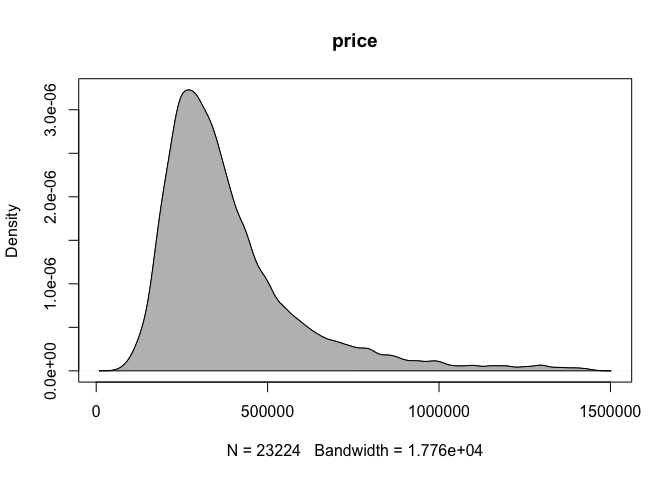
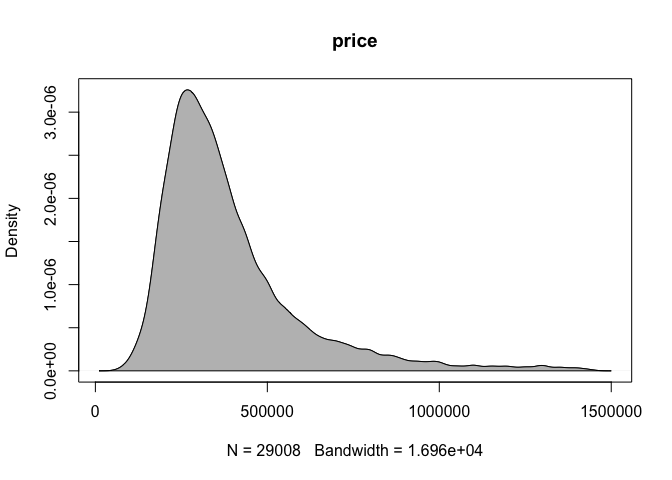
Log transform skewed features

diff --git a/modeling/modeling.md b/modeling/modeling.md
@@ -64,24 +64,12 @@ df <- subset(df,select = -c(zpid
 ```
 
 ``` r
-# train/test split
-set.seed(20221217)
-
-# 80/20
-parts = caret::createDataPartition(df$price, p = .8, list = F)
-train = df[parts, ]
-test = df[-parts, ]
-
-dim(train)
+# a little additional lot size cleaning
+df <- df[!df$lot_size == 0,]
+df <- df[!df$lot_size == 1,]
+# lot size should be at least as large as living area
+df$lot_size[df$lot_size < df$living_area] <- df$living_area[df$lot_size < df$living_area]
 ```
-
-    ## [1] 23224    31
-
-``` r
-dim(test)
-```
-
-    ## [1] 5804   31
 
 # Model
 
@@ -93,10 +81,11 @@ sophisticated approaches.
 
 The target variable distribution is right skewed, as expected with home
 prices. The log transformation does a decent job of normalizing, which
-is more appropriate for a linear model.
+is more appropriate for a linear model. Log transformations are also
+applied to the skewed features.
 
 ``` r
-d = density(train$price)
+d = density(df$price)
 plot(d, main = 'price')
 polygon(d, col='gray')
 ```
@@ -104,12 +93,40 @@ polygon(d, col='gray')
 ![](modeling_files/figure-gfm/unnamed-chunk-6-1.png)<!-- -->
 
 ``` r
-d_log = density(log(train$price))
+d_log = density(log(df$price))
 plot(d_log, main = 'price')
 polygon(d_log, col='gray')
 ```
 
 ![](modeling_files/figure-gfm/unnamed-chunk-6-2.png)<!-- -->
+
+``` r
+# feature log transformations
+df$bedrooms <- log(df$bedrooms)
+df$bathrooms <- log(df$bathrooms)
+df$living_area <- log(df$living_area)
+df$lot_size <- log(df$lot_size)
+```
+
+``` r
+# train/test split
+set.seed(20221217)
+
+# 80/20
+parts = caret::createDataPartition(df$price, p = .8, list = F)
+train = df[parts, ]
+test = df[-parts, ]
+
+dim(train)
+```
+
+    ## [1] 23207    31
+
+``` r
+dim(test)
+```
+
+    ## [1] 5801   31
 
 ``` r
 # linear model training
@@ -123,47 +140,47 @@ summary(model_lm)
     ## 
     ## Residuals:
     ##      Min       1Q   Median       3Q      Max 
-    ## -1.35287 -0.12453  0.00719  0.13963  1.29593 
+    ## -1.26566 -0.12557  0.00309  0.13734  1.28286 
     ## 
     ## Coefficients:
-    ##                   Estimate Std. Error  t value Pr(>|t|)    
-    ## (Intercept)      1.242e+01  1.230e-02 1009.882  < 2e-16 ***
-    ## bedrooms         7.255e-03  2.811e-03    2.581  0.00985 ** 
-    ## bathrooms        1.050e-01  2.698e-03   38.940  < 2e-16 ***
-    ## living_area      2.684e-04  3.688e-06   72.771  < 2e-16 ***
-    ## lot_size         1.836e-06  2.095e-07    8.763  < 2e-16 ***
-    ## downtown_dist   -3.153e-02  1.045e-03  -30.165  < 2e-16 ***
-    ## condo           -9.817e-02  5.676e-03  -17.295  < 2e-16 ***
-    ## townhouse       -1.284e-01  6.814e-03  -18.847  < 2e-16 ***
-    ## neighborhood_2  -2.616e-01  1.068e-02  -24.493  < 2e-16 ***
-    ## neighborhood_3  -2.666e-01  1.245e-02  -21.418  < 2e-16 ***
-    ## neighborhood_4   7.441e-02  1.587e-02    4.688 2.78e-06 ***
-    ## neighborhood_5  -1.017e-01  1.020e-02   -9.974  < 2e-16 ***
-    ## neighborhood_6  -3.112e-01  1.184e-02  -26.281  < 2e-16 ***
-    ## neighborhood_7  -1.523e-01  1.349e-02  -11.294  < 2e-16 ***
-    ## neighborhood_8  -3.728e-01  1.094e-02  -34.059  < 2e-16 ***
-    ## neighborhood_9  -2.885e-01  1.430e-02  -20.178  < 2e-16 ***
-    ## neighborhood_10 -3.657e-01  1.234e-02  -29.640  < 2e-16 ***
-    ## neighborhood_11 -1.628e-01  1.286e-02  -12.660  < 2e-16 ***
-    ## neighborhood_12 -4.375e-01  1.207e-02  -36.255  < 2e-16 ***
-    ## neighborhood_13 -5.415e-01  1.546e-02  -35.015  < 2e-16 ***
-    ## neighborhood_14 -3.090e-01  1.335e-02  -23.142  < 2e-16 ***
-    ## neighborhood_15 -4.633e-01  1.319e-02  -35.129  < 2e-16 ***
-    ## neighborhood_16 -1.406e-01  1.106e-02  -12.709  < 2e-16 ***
-    ## neighborhood_17  2.918e-02  1.192e-02    2.447  0.01439 *  
-    ## neighborhood_18 -9.184e-02  1.079e-02   -8.510  < 2e-16 ***
-    ## neighborhood_19  1.147e-01  1.305e-02    8.791  < 2e-16 ***
-    ## neighborhood_20 -3.745e-01  1.132e-02  -33.079  < 2e-16 ***
-    ## neighborhood_21  1.097e-01  1.414e-02    7.760 8.86e-15 ***
-    ## neighborhood_22 -4.128e-01  4.270e-02   -9.669  < 2e-16 ***
-    ## neighborhood_23 -5.162e-03  1.767e-02   -0.292  0.77016    
-    ## neighborhood_24  1.540e-02  4.447e-02    0.346  0.72908    
+    ##                  Estimate Std. Error t value Pr(>|t|)    
+    ## (Intercept)      8.436791   0.049452 170.604  < 2e-16 ***
+    ## bedrooms        -0.023794   0.008397  -2.834  0.00461 ** 
+    ## bathrooms        0.182758   0.005995  30.483  < 2e-16 ***
+    ## living_area      0.600369   0.007249  82.819  < 2e-16 ***
+    ## lot_size         0.029067   0.002456  11.835  < 2e-16 ***
+    ## downtown_dist   -0.034930   0.001019 -34.284  < 2e-16 ***
+    ## condo           -0.065813   0.006350 -10.365  < 2e-16 ***
+    ## townhouse       -0.099901   0.007170 -13.934  < 2e-16 ***
+    ## neighborhood_2  -0.327735   0.010262 -31.935  < 2e-16 ***
+    ## neighborhood_3  -0.314266   0.012059 -26.061  < 2e-16 ***
+    ## neighborhood_4   0.018517   0.015342   1.207  0.22746    
+    ## neighborhood_5  -0.160811   0.009814 -16.386  < 2e-16 ***
+    ## neighborhood_6  -0.383310   0.011361 -33.738  < 2e-16 ***
+    ## neighborhood_7  -0.189173   0.013010 -14.541  < 2e-16 ***
+    ## neighborhood_8  -0.435554   0.010520 -41.404  < 2e-16 ***
+    ## neighborhood_9  -0.338777   0.013775 -24.594  < 2e-16 ***
+    ## neighborhood_10 -0.425866   0.011858 -35.915  < 2e-16 ***
+    ## neighborhood_11 -0.212172   0.012399 -17.112  < 2e-16 ***
+    ## neighborhood_12 -0.482208   0.011643 -41.415  < 2e-16 ***
+    ## neighborhood_13 -0.612347   0.014824 -41.307  < 2e-16 ***
+    ## neighborhood_14 -0.332129   0.012948 -25.651  < 2e-16 ***
+    ## neighborhood_15 -0.529689   0.012725 -41.625  < 2e-16 ***
+    ## neighborhood_16 -0.207629   0.010640 -19.514  < 2e-16 ***
+    ## neighborhood_17 -0.021011   0.011557  -1.818  0.06907 .  
+    ## neighborhood_18 -0.166906   0.010382 -16.077  < 2e-16 ***
+    ## neighborhood_19  0.064088   0.012731   5.034 4.84e-07 ***
+    ## neighborhood_20 -0.435233   0.010900 -39.931  < 2e-16 ***
+    ## neighborhood_21  0.062042   0.013626   4.553 5.31e-06 ***
+    ## neighborhood_22 -0.462511   0.039612 -11.676  < 2e-16 ***
+    ## neighborhood_23 -0.072716   0.016698  -4.355 1.34e-05 ***
+    ## neighborhood_24  0.091196   0.041941   2.174  0.02969 *  
     ## ---
     ## Signif. codes:  0 '***' 0.001 '**' 0.01 '*' 0.05 '.' 0.1 ' ' 1
     ## 
-    ## Residual standard error: 0.2247 on 23193 degrees of freedom
-    ## Multiple R-squared:  0.7606, Adjusted R-squared:  0.7603 
-    ## F-statistic:  2456 on 30 and 23193 DF,  p-value: < 2.2e-16
+    ## Residual standard error: 0.2187 on 23176 degrees of freedom
+    ## Multiple R-squared:  0.7721, Adjusted R-squared:  0.7718 
+    ## F-statistic:  2617 on 30 and 23176 DF,  p-value: < 2.2e-16
 
 ``` r
 # linear regression prediction and error
@@ -172,7 +189,7 @@ rmse_lm <- sqrt(sum((exp(pred_lm) - test$price)^2)/length(test$price))
 rmse_lm
 ```
 
-    ## [1] 97979.64
+    ## [1] 93424.88
 
 ``` r
 # plot
@@ -180,7 +197,7 @@ plot(test$price, exp(pred_lm))
 abline(coef = c(0, 1), c = 'red')
 ```
 
-![](modeling_files/figure-gfm/unnamed-chunk-9-1.png)<!-- -->
+![](modeling_files/figure-gfm/unnamed-chunk-11-1.png)<!-- -->
 
 ## XGBoost
 
@@ -218,7 +235,7 @@ rmse_xgb <- caret::RMSE(test_y, pred_xgb)
 rmse_xgb
 ```
 
-    ## [1] 85377
+    ## [1] 87721.23
 
 ``` r
 # plot
@@ -226,15 +243,15 @@ plot(test$price, pred_xgb)
 abline(coef = c(0, 1), c = 'red')
 ```
 
-![](modeling_files/figure-gfm/unnamed-chunk-13-1.png)<!-- -->
+![](modeling_files/figure-gfm/unnamed-chunk-15-1.png)<!-- -->
 
 # Comparison
 
-XGBoost results in a 13% reduction in RMSE.
+XGBoost results in a 6% reduction in RMSE.
 
 ``` r
 # performance comparison
 1 - rmse_xgb/rmse_lm
 ```
 
-    ## [1] 0.1286252
+    ## [1] 0.06105061
